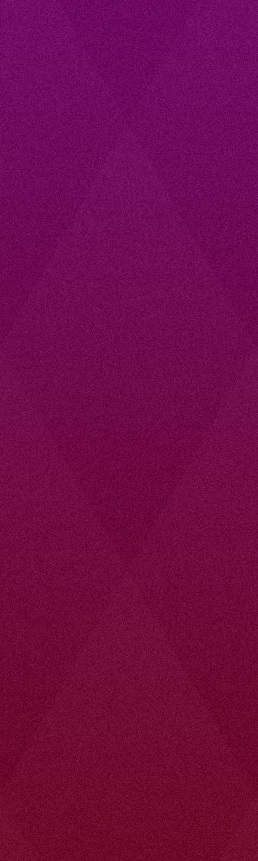
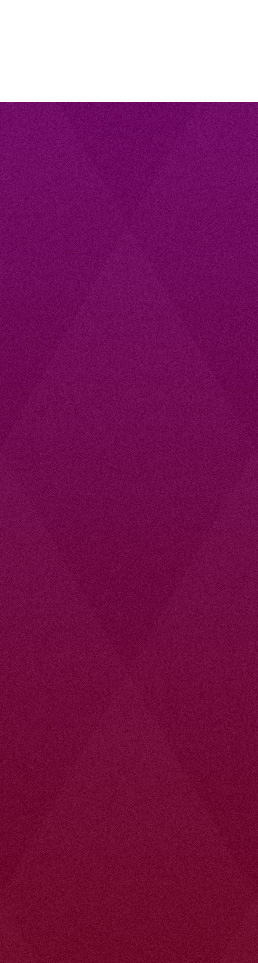
přidány správné verze pozadí, v PHP (index) odstraněna třída, která se bude vkládat do stránek, v PHP (single, template) odstraněna třída předešlá a v CSS (style) upraveny styly

Changed region(s): [[0.0, 0.0, 1.0, 0.1208]]

diff --git a/wp-content/themes/zdenatvrda_test/style.css b/wp-content/themes/zdenatvrda_test/style.css
@@ -471,6 +471,7 @@ a.tlacitko:hover {
 }
 
 #obsah-clanky {
+  height: 900px;
   width: 940px;
   margin: 0 auto 0 auto;
   background: #ffffff;
@@ -981,7 +982,7 @@ a.na-program-2 {
 
 #delicicara {
   height: 1px;
-  width: 940px;
+  width: 900px;
   background: #d9d9d9;
   margin: 60px auto auto auto;
 }
@@ -1162,22 +1163,22 @@ h3#Grand {
 }
 
 .vysledek{
-  height: 30px;
+  /*height: 30px;*/
   width: 250px;
   background: ;
-  background: url(images/pohar.png) no-repeat 20% center #f3f3f3;
+  background: url(images/pohar.png) no-repeat 20% center #d6d6d6;
   font-family: 'Open Sans', sans-serif;
   font-weight: 700;
   font-size: 21px;
   color: #171717;
   border: 0px solid #f3f3f3;
-  border-bottom: 2px solid #999999;
+  /*border-bottom: 2px solid #999999;*/
   -webkit-border-radius: 5px;
   -moz-border-radius: 5px;
   border-radius: 5px;
   margin-top: 10px;
   margin-left: 100px;
-  padding: 6px;
+  /*padding: 6px;*/
 	display: block;
 	text-decoration: none;
   text-align: center;

diff --git a/wp-content/themes/zdenatvrda_test/index.php b/wp-content/themes/zdenatvrda_test/index.php
@@ -12,7 +12,7 @@
          Absolutní vítězka GP Oděsa 1998.<br>
          Účastnice nejvyšší profesionální kulturistické soutěže žen,<br>
          Olympia 1997 v New Yorku a 1998 v Praze.</p>
-         <a class="tlacitko" href="o-mne.php" title="Osobní tréninky pro pokročilé">Více o mně</a>
+         <a class="tlacitko" href="o-mne" title="Osobní tréninky pro pokročilé">Více o mně</a>
         <div id="uvodni-info-odznak"></div>
 
       <div id="vyberte">
@@ -34,7 +34,7 @@
  <h3>Pro začátečnice</h3>
  <p>Do fitness centra pravidelně nechodíte, případně jste v něm nikdy nebyla? Pojďme začít společně. Tento trénink je určený přesně pro vás.</p>
  <a class="tlacitko form" href="formular.php?var=Osobní tréninky pro začátečnice" title="Osobní tréninky pro začátečnice">Jdu do toho!</a>
-<a class="na-program" href="pro-zacatecnice.php" title="Osobní tréninky pro začátečnice">Více o programu</a>
+<a class="na-program" href="treninky" title="Osobní tréninky pro začátečnice">Více o programu</a>
  </div>
 
  <div id="prostredni">
@@ -42,7 +42,7 @@
  <h3>Pro pokročilé</h3>
  <p> Sport je vaší oblíbenou zábavou a víte, že díky němu budete vypadat skvěle co nejdéle? Pojďte se mnou čelit novým výzvám a posunout své hranice.</p>
  <a class="tlacitko form" href="formular.php?var=Osobní tréninky pro pokročilé" title="Osobní tréninky pro pokročilé">Jdu do toho!</a>
-  <a class="na-program" href="pro-pokrocile.php" title="Osobní tréninky pro pokročilé">Více o programu</a>
+  <a class="na-program" href="treninky" title="Osobní tréninky pro pokročilé">Více o programu</a>
  </div>
 
  <div id="pravy">
@@ -50,7 +50,7 @@
  <h3>Pro zkušené</h3>
  <p>Život bez sportu si nedovedete vůbec představit a věnujete mu většinu volného času. Pomohu vám připravit se i na ty nejodvážnější výzvy a cíle.</p>
  <a class="tlacitko form" href="formular.php?var=Osobní tréninky pro zkušené" title="Osobní tréninky pro zkušené">Jdu do toho!</a>
-  <a class="na-program" href="pro-pokrocile.php" title="Osobní tréninky pro pokročilé">Více o programu</a>
+  <a class="na-program" href="treninky" title="Osobní tréninky pro pokročilé">Více o programu</a>
  </div>
 </div>
 

diff --git a/wp-content/themes/zdenatvrda_test/template-fullwidth.php b/wp-content/themes/zdenatvrda_test/template-fullwidth.php
@@ -12,15 +12,11 @@
 <div></div>
 
 <div id="obal">
-<div id="obsah">
-       
+
 <?php if (have_posts()) : while (have_posts()) : the_post(); ?>
   <!--BEGIN .hentry -->
-  <div <?php post_class() ?> id="post-<?php the_ID(); ?>">
-        <h1 class="page-title"><?phpthe_title(); ?></h1>
-<div class="entry-content">
+  <div>
           <?php the_content(); ?>
-</div>
 </div>
 <?php endwhile; else: ?>
 <div id="post-0" <?php post_class() ?>>
@@ -33,8 +29,7 @@
  </div>
    <?php endif; ?>
   
-</div>
- 
+
 <div id="ctyrprogram">
 	<div id="program1">
 		<h3>Pro začátečnice</h3>

diff --git a/wp-content/themes/zdenatvrda_test/single.php b/wp-content/themes/zdenatvrda_test/single.php
@@ -16,8 +16,7 @@
 </div>
  
 <div id="obal">
-<div id="obsah">
-    
+
      <?php if (have_posts()) : while (have_posts()) : the_post(); ?>
  <?php get_template_part( 'content', get_post_format() ); ?>
 <!--BEGIN .entry-content -->
@@ -34,8 +33,7 @@ something that isn't here.", "theme") ?></p>
 </div>
 <?php endif; ?>
  
-</div>
- 
+
 <div id="ctyrprogram">
 	<div id="program1">
 		<h3>Pro začátečnice</h3>
